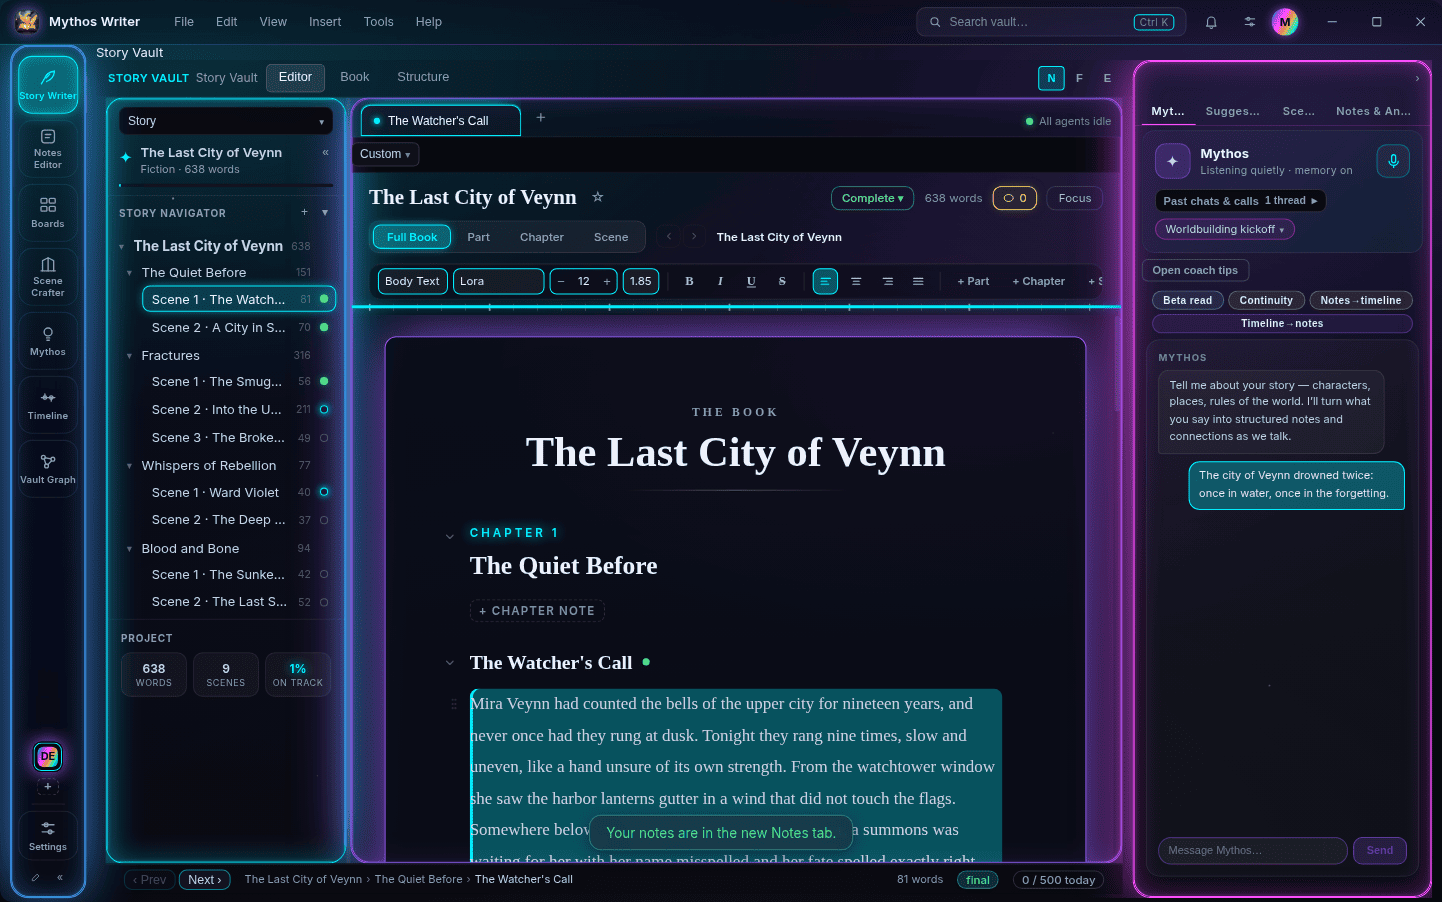
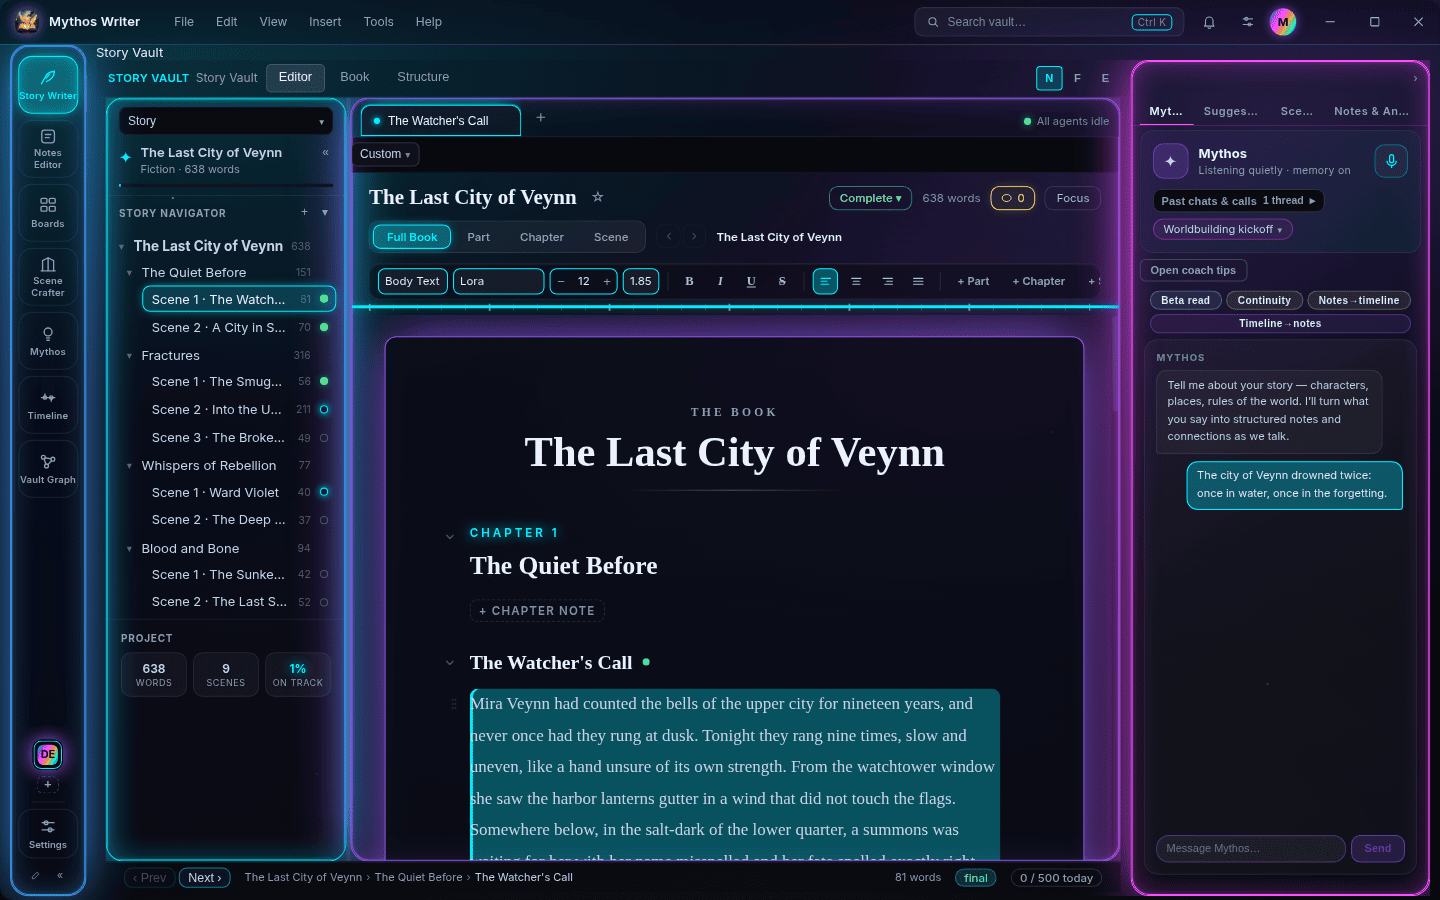
docs: capture the README window at 1440x900
The README size now matches the PNGs. The Notes-tab toast is already
dismissed before the partner and settings shots, Paste key is named
beside the other model choices, and Model & keys stays on LM Studio's
idle list so the Ollama warning is not shown. The demo seed config is
removed on import, in finally, in afterAll, and on process exit.

diff --git a/e2e/readme-screenshots.spec.ts b/e2e/readme-screenshots.spec.ts
@@ -5,9 +5,23 @@
  *   welcome, story-writer, notes, scene-crafter, partner, timeline,
  *   vault-graph, settings-model-keys
  *
- * Each shot is the full Electron content area at 1440×900, with no clip.
- * The demo project is The Last City of Veynn (createMythosVault seedDemo).
- * No AI key is written into the profile.
+ * Each shot is the full Electron content area at exactly 1440×900, with no clip.
+ * Electron's getContentSize can land a couple of pixels off the request; the
+ * spec measures that delta and sets the content size again so the PNG is
+ * 1440×900. The demo project is The Last City of Veynn (createMythosVault
+ * seedDemo). No AI key is written into the profile.
+ *
+ * The seed writes electron-main/vitest.readme-seed.config.ts because vitest
+ * resolves its config from that package. That file is removed at import
+ * (pre-clean), in a finally around the seed, in afterAll, and on process
+ * exit. MYTHOS_README_SEED_FAIL=1 throws after the config is written so a
+ * failed run can be checked; CI does not set it.
+ *
+ * The demo profile marks the Notes-tab upgrade toast as already shown, and
+ * the partner and settings shots assert that toast is gone. Model & keys
+ * selects LM Studio. A stub on 127.0.0.1:1234 returns an empty model list,
+ * so the panel stays on the real idle state and does not show a
+ * "not running" warning. Ollama is not selected.
  *
  * Run:
  *   xvfb-run -a npx playwright test e2e/readme-screenshots.spec.ts --reporter=list
@@ -15,6 +29,7 @@
 
 import { execFileSync } from 'node:child_process';
 import fs from 'node:fs';
+import http from 'node:http';
 import os from 'node:os';
 import path from 'node:path';
 import { PNG } from 'pngjs';
@@ -29,7 +44,38 @@ import {
 const REPO_ROOT = path.resolve(__dirname, '..');
 const MAIN_JS = path.join(REPO_ROOT, 'out/main/main.js');
 const SCREENSHOT_DIR = path.join(REPO_ROOT, 'docs/screenshots/readme');
+const SEED_CONFIG = path.join(REPO_ROOT, 'electron-main/vitest.readme-seed.config.ts');
 const CONTENT = { width: 1440, height: 900 };
+const NOTES_TOAST = 'Your notes are in the new Notes tab.';
+const LMSTUDIO_URL = 'http://127.0.0.1:1234/v1';
+
+let modelStub: http.Server | null = null;
+
+function startModelStub(): Promise<void> {
+  const server = http.createServer((_req, res) => {
+    res.writeHead(200, { 'content-type': 'application/json' });
+    res.end(JSON.stringify({ data: [] }));
+  });
+  modelStub = server;
+  return new Promise((resolve, reject) => {
+    server.once('error', reject);
+    server.listen(1234, '127.0.0.1', () => resolve());
+  });
+}
+
+function stopModelStub(): Promise<void> {
+  const server = modelStub;
+  modelStub = null;
+  if (!server) return Promise.resolve();
+  return new Promise((resolve) => server.close(() => resolve()));
+}
+
+function removeSeedConfig(): void {
+  fs.rmSync(SEED_CONFIG, { force: true });
+}
+
+removeSeedConfig();
+process.on('exit', removeSeedConfig);
 
 const SHOTS = [
   'welcome',
@@ -70,7 +116,6 @@ function seedVeynn(parent: string): SeedResult {
   const vaultParent = path.join(parent, 'vaults');
   const outFile = path.join(parent, 'seed-result.json');
   const testFile = path.join(parent, 'seed-veynn.test.ts');
-  const configFile = path.join(REPO_ROOT, 'electron-main/vitest.readme-seed.config.ts');
   fs.mkdirSync(parent, { recursive: true });
   const createVault = path.join(REPO_ROOT, 'electron-main/src/mythosFormat/createVault.ts');
   fs.writeFileSync(testFile, `
@@ -86,7 +131,8 @@ it('seeds the demo vault', () => {
   fs.writeFileSync(${JSON.stringify(outFile)}, JSON.stringify(result));
 });
 `);
-  fs.writeFileSync(configFile, `import { defineConfig } from 'vitest/config';
+  removeSeedConfig();
+  fs.writeFileSync(SEED_CONFIG, `import { defineConfig } from 'vitest/config';
 export default defineConfig({
   test: {
     include: [${JSON.stringify(testFile)}],
@@ -96,13 +142,16 @@ export default defineConfig({
 });
 `);
   try {
-    execFileSync('npx', ['vitest', 'run', '--config', configFile], {
+    if (process.env.MYTHOS_README_SEED_FAIL === '1') {
+      throw new Error('injected readme seed failure');
+    }
+    execFileSync('npx', ['vitest', 'run', '--config', SEED_CONFIG], {
       cwd: path.join(REPO_ROOT, 'electron-main'),
       env: strippedEnv(),
       stdio: 'inherit',
     });
   } finally {
-    fs.rmSync(configFile, { force: true });
+    removeSeedConfig();
   }
   return JSON.parse(fs.readFileSync(outFile, 'utf8')) as SeedResult;
 }
@@ -117,8 +166,13 @@ function writeProfile(userData: string, seed: SeedResult | null): void {
   fs.writeFileSync(path.join(userData, 'app-settings.json'), JSON.stringify({
     apiKey: '',
     onboardingComplete: true,
+    notesTabUpgradeToastShown: true,
     theme: 'dark',
-    provider: { kind: 'custom', apiKey: '', baseUrl: '', model: '' },
+    // LM Studio needs no API key, so the key field stays unmounted. The
+    // capture listens on its default port and answers /v1/models with an
+    // empty list, which is the real idle state: no "not running" warning.
+    provider: { kind: 'lmstudio', apiKey: '', baseUrl: LMSTUDIO_URL, model: '' },
+    writingPartner: { modelKeysProvider: 'lmstudio' },
     lastOpenedScene: {
       sceneId: seed.firstSceneId,
       scenePath: seed.firstScenePath,
@@ -149,16 +203,40 @@ async function launch(userData: string): Promise<ElectronApplication> {
   });
 }
 
-async function fitWindow(app: ElectronApplication, page: Page): Promise<void> {
-  await app.evaluate(({ BrowserWindow }, size) => {
-    const win = BrowserWindow.getAllWindows()[0];
-    win.setContentSize(size.width, size.height);
-  }, CONTENT);
-  const size = await app.evaluate(({ BrowserWindow }) => {
+async function contentSize(app: ElectronApplication): Promise<{ width: number; height: number }> {
+  return app.evaluate(({ BrowserWindow }) => {
     const [width, height] = BrowserWindow.getAllWindows()[0].getContentSize();
     return { width, height };
   });
-  await page.setViewportSize(size);
+}
+
+async function fitWindow(app: ElectronApplication, page: Page): Promise<void> {
+  const apply = (width: number, height: number) => app.evaluate(({ BrowserWindow }, size) => {
+    const win = BrowserWindow.getAllWindows()[0];
+    win.webContents.setZoomFactor(1);
+    win.setContentSize(size.width, size.height);
+  }, { width, height });
+
+  await apply(CONTENT.width, CONTENT.height);
+  let size = await contentSize(app);
+  if (size.width !== CONTENT.width || size.height !== CONTENT.height) {
+    await apply(
+      CONTENT.width - (size.width - CONTENT.width),
+      CONTENT.height - (size.height - CONTENT.height),
+    );
+    size = await contentSize(app);
+  }
+  expect(size.width, 'content width').toBe(CONTENT.width);
+  expect(size.height, 'content height').toBe(CONTENT.height);
+  await page.setViewportSize({ width: CONTENT.width, height: CONTENT.height });
+}
+
+async function settleNotesToast(page: Page): Promise<void> {
+  const toast = page.getByTestId('app-toast').filter({ hasText: NOTES_TOAST });
+  if (await toast.isVisible().catch(() => false)) {
+    await expect(toast).toBeHidden({ timeout: 8_000 });
+  }
+  await expect(page.getByText(NOTES_TOAST)).toHaveCount(0);
 }
 
 async function saveShot(page: Page, name: (typeof SHOTS)[number]): Promise<void> {
@@ -166,8 +244,8 @@ async function saveShot(page: Page, name: (typeof SHOTS)[number]): Promise<void>
   const file = path.join(SCREENSHOT_DIR, `${name}.png`);
   await page.screenshot({ path: file, type: 'png', animations: 'disabled' });
   const png = PNG.sync.read(fs.readFileSync(file));
-  expect(png.width, name).toBeGreaterThanOrEqual(CONTENT.width);
-  expect(png.height, name).toBeGreaterThanOrEqual(CONTENT.height);
+  expect(png.width, name).toBe(CONTENT.width);
+  expect(png.height, name).toBe(CONTENT.height);
   console.log(`SHOT ${name}.png ${png.width}x${png.height} bytes=${fs.statSync(file).size}`);
 }
 
@@ -176,19 +254,21 @@ test.describe.configure({ mode: 'serial' });
 let seed: SeedResult;
 let seedRoot: string;
 
-test.beforeAll(() => {
+test.beforeAll(async () => {
   for (const key of ['SKYYPLAYZ_GITHUB_PAT', 'GH_TOKEN', 'GITHUB_TOKEN', 'ANTHROPIC_API_KEY', 'OPENAI_API_KEY', 'OPENROUTER_API_KEY']) {
     delete process.env[key];
   }
+  await startModelStub();
   seedRoot = fs.mkdtempSync(path.join(os.tmpdir(), 'mythos-readme-seed-'));
   seed = seedVeynn(seedRoot);
   expect(seed.ok).toBe(true);
   expect(seed.firstScenePath).toContain('The Last City of Veynn');
 });
 
-test.afterAll(() => {
+test.afterAll(async () => {
+  removeSeedConfig();
+  await stopModelStub();
   if (seedRoot) fs.rmSync(seedRoot, { recursive: true, force: true });
-  fs.rmSync(path.join(REPO_ROOT, 'electron-main/vitest.readme-seed.config.ts'), { force: true });
 });
 
 test('screenshot: welcome', async () => {
@@ -240,6 +320,7 @@ test('screenshot: demo window', async () => {
     if (await dismiss.isVisible().catch(() => false)) await dismiss.click();
     await expect(page.getByText('Recovered your previous brainstorm draft')).toHaveCount(0);
     await expect(page.getByText('IDEA COLLECTIONS').first()).toBeVisible({ timeout: 15_000 });
+    await settleNotesToast(page);
     await saveShot(page, 'partner');
 
     await page.locator('[data-testid="nav-rail-timeline"]').click();
@@ -253,13 +334,22 @@ test('screenshot: demo window', async () => {
     await page.locator('.app-menu-gear-btn').click();
     await page.locator('[data-testid="settings-cat-agents"]').click();
     await expect(page.getByText('OpenRouter').first()).toBeVisible({ timeout: 15_000 });
-    await page.locator('[data-testid="mk-prov-ollama"]').click();
+    await page.waitForFunction(() => {
+      return !document.querySelector('[data-testid="model-list-loading"]')
+        && !document.querySelector('[data-testid="model-list-error"]')
+        && !document.querySelector('[data-testid="ollama-not-running-hint"]');
+    }, undefined, { timeout: 15_000 });
+    await expect(page.getByText('Ollama is not running')).toHaveCount(0);
+    await expect(page.getByTestId('ollama-not-running-hint')).toHaveCount(0);
+    await expect(page.getByText(/could not reach|network error reaching/i)).toHaveCount(0);
+    await settleNotesToast(page);
     const frame = await page.evaluate(() => {
       const body = document.querySelector('.settings-body');
       const api = document.querySelector('[data-testid="mk-bucket-api"]');
       if (!body || !api) return { ok: false as const, reason: 'missing settings scroller' };
-      const c0 = body.getBoundingClientRect();
-      body.scrollTop += api.getBoundingClientRect().top - c0.top;
+      const bodyRect = () => body.getBoundingClientRect();
+      // Subscription bucket stays above the fold.
+      body.scrollTop += api.getBoundingClientRect().top - bodyRect().top;
       const c = body.getBoundingClientRect();
       const shown = (sel: string) => {
         const el = document.querySelector(sel);
@@ -282,6 +372,7 @@ test('screenshot: demo window', async () => {
       return {
         ok: true as const,
         openRouter: shown('[data-testid="mk-prov-openrouter"]'),
+        pasteKey: shown('[data-testid="mk-prov-paste-key"]'),
         ollama: shown('[data-testid="mk-prov-ollama"]'),
         lmstudio: shown('[data-testid="mk-prov-lmstudio"]'),
         llamacpp: shown('[data-testid="mk-prov-llamacpp"]'),
@@ -290,20 +381,23 @@ test('screenshot: demo window', async () => {
         claudeRow: shown('[data-testid="mk-claude-row"]'),
         subscription: textShown('USE MY SUBSCRIPTION'),
         comingSoon: textShown('Coming soon'),
+        ollamaDown: textShown('Ollama is not running'),
       };
     });
-    expect(frame.ok, JSON.stringify(frame)).toBe(true);
-    if (frame.ok) {
-      expect(frame.openRouter).toBe(true);
-      expect(frame.ollama).toBe(true);
-      expect(frame.lmstudio).toBe(true);
-      expect(frame.llamacpp).toBe(true);
-      expect(frame.cli).toBe(false);
-      expect(frame.key).toBe(false);
-      expect(frame.claudeRow).toBe(false);
-      expect(frame.subscription).toBe(false);
-      expect(frame.comingSoon).toBe(false);
-    }
+    expect(frame, JSON.stringify(frame)).toMatchObject({
+      ok: true,
+      openRouter: true,
+      pasteKey: true,
+      ollama: true,
+      lmstudio: true,
+      llamacpp: true,
+      cli: false,
+      key: false,
+      claudeRow: false,
+      subscription: false,
+      comingSoon: false,
+      ollamaDown: false,
+    });
     await saveShot(page, 'settings-model-keys');
   } finally {
     await app.close().catch(() => undefined);

diff --git a/README.md b/README.md
@@ -4,7 +4,7 @@ Mythos Writer is a desktop app for fiction. Your manuscript and your notes are p
 
 Windows is the primary platform. Mac and Linux: TBD.
 
-AI is optional. You bring your own [OpenRouter](https://openrouter.ai/) key, or you run a model on this computer with **Ollama**, **LM Studio**, or **llama.cpp**. Mythos suggests. You write the manuscript. Scene Crafter can turn a scene setup into a draft card on a board; that card stays on the board.
+AI is optional. You bring your own [OpenRouter](https://openrouter.ai/) key, paste an OpenAI-compatible key, or you run a model on this computer with **Ollama**, **LM Studio**, or **llama.cpp**. Mythos suggests. You write the manuscript. Scene Crafter can turn a scene setup into a draft card on a board; that card stays on the board.
 
 ## Screenshots
 
@@ -40,7 +40,7 @@ These are the full app window at 1440×900. The project is the demo story **The 
 
 ### Model & keys
 
-![Settings → Model & keys — OpenRouter, Ollama, LM Studio, and llama.cpp](docs/screenshots/readme/settings-model-keys.png)
+![Settings → Model & keys — OpenRouter, Paste key, Ollama, LM Studio, and llama.cpp](docs/screenshots/readme/settings-model-keys.png)
 
 ## Install
 
@@ -90,6 +90,7 @@ Open **Settings → Model & keys**.
 | Choice | What you provide |
 | --- | --- |
 | OpenRouter | Your OpenRouter key. The endpoint box starts empty. Type `https://openrouter.ai/api/v1` |
+| Paste key | An OpenAI-compatible key. The tile is **Paste key (OpenAI-compatible)** |
 | Ollama | A local server. The default address is `http://127.0.0.1:11434/v1` |
 | LM Studio | A local server. The default address is `http://127.0.0.1:1234/v1` |
 | llama.cpp | A local server (`llama-server`). The default address is `http://127.0.0.1:8080/v1` |

diff --git a/CHANGELOG.md b/CHANGELOG.md
@@ -20,7 +20,7 @@ _No git tag and no GitHub release for 0.5.8. The version on main is still 0.5.7 
 - Markdown import and paste no longer risk freezing the app on very large or malformed text (markdown-it security update 14.2.0 → 14.3.3). ([#1743](https://github.com/SkyyPlayz/Mythos-Writer/pull/1743))
 
 ### Changed
-- **README matches the current app.** Windows is the primary platform. AI is your own OpenRouter key, or a model on this computer (Ollama, LM Studio, or llama.cpp). The screenshots are the current Liquid Neon window. ([#1759](https://github.com/SkyyPlayz/Mythos-Writer/pull/1759))
+- **README matches the current app.** Windows is the primary platform. AI is your own OpenRouter key, a pasted OpenAI-compatible key, or a model on this computer (Ollama, LM Studio, or llama.cpp). The screenshots are the current Liquid Neon window. ([#1759](https://github.com/SkyyPlayz/Mythos-Writer/pull/1759))
 - **OpenRouter requests never use Google** — chat, speech, and transcription calls to OpenRouter ignore Google Vertex and Google AI Studio, keep zero-data-retention and data-collection deny, and will not select a google/* model. ([#1741](https://github.com/SkyyPlayz/Mythos-Writer/pull/1741))
 - AI suggestions can no longer write into your manuscript files. Auto-mark no longer edits notes: suggestions for your notes now wait in the inbox until you accept them, and suggestions for your manuscript are just marked done. ([#1742](https://github.com/SkyyPlayz/Mythos-Writer/pull/1742))
 - Continuity fixes now show how to fix the issue, with no Apply Edit button; manuscript suggestions are marked done instead of accepted; the Add to scene draft menu item and drawer button are gone. ([#1740](https://github.com/SkyyPlayz/Mythos-Writer/pull/1740))
